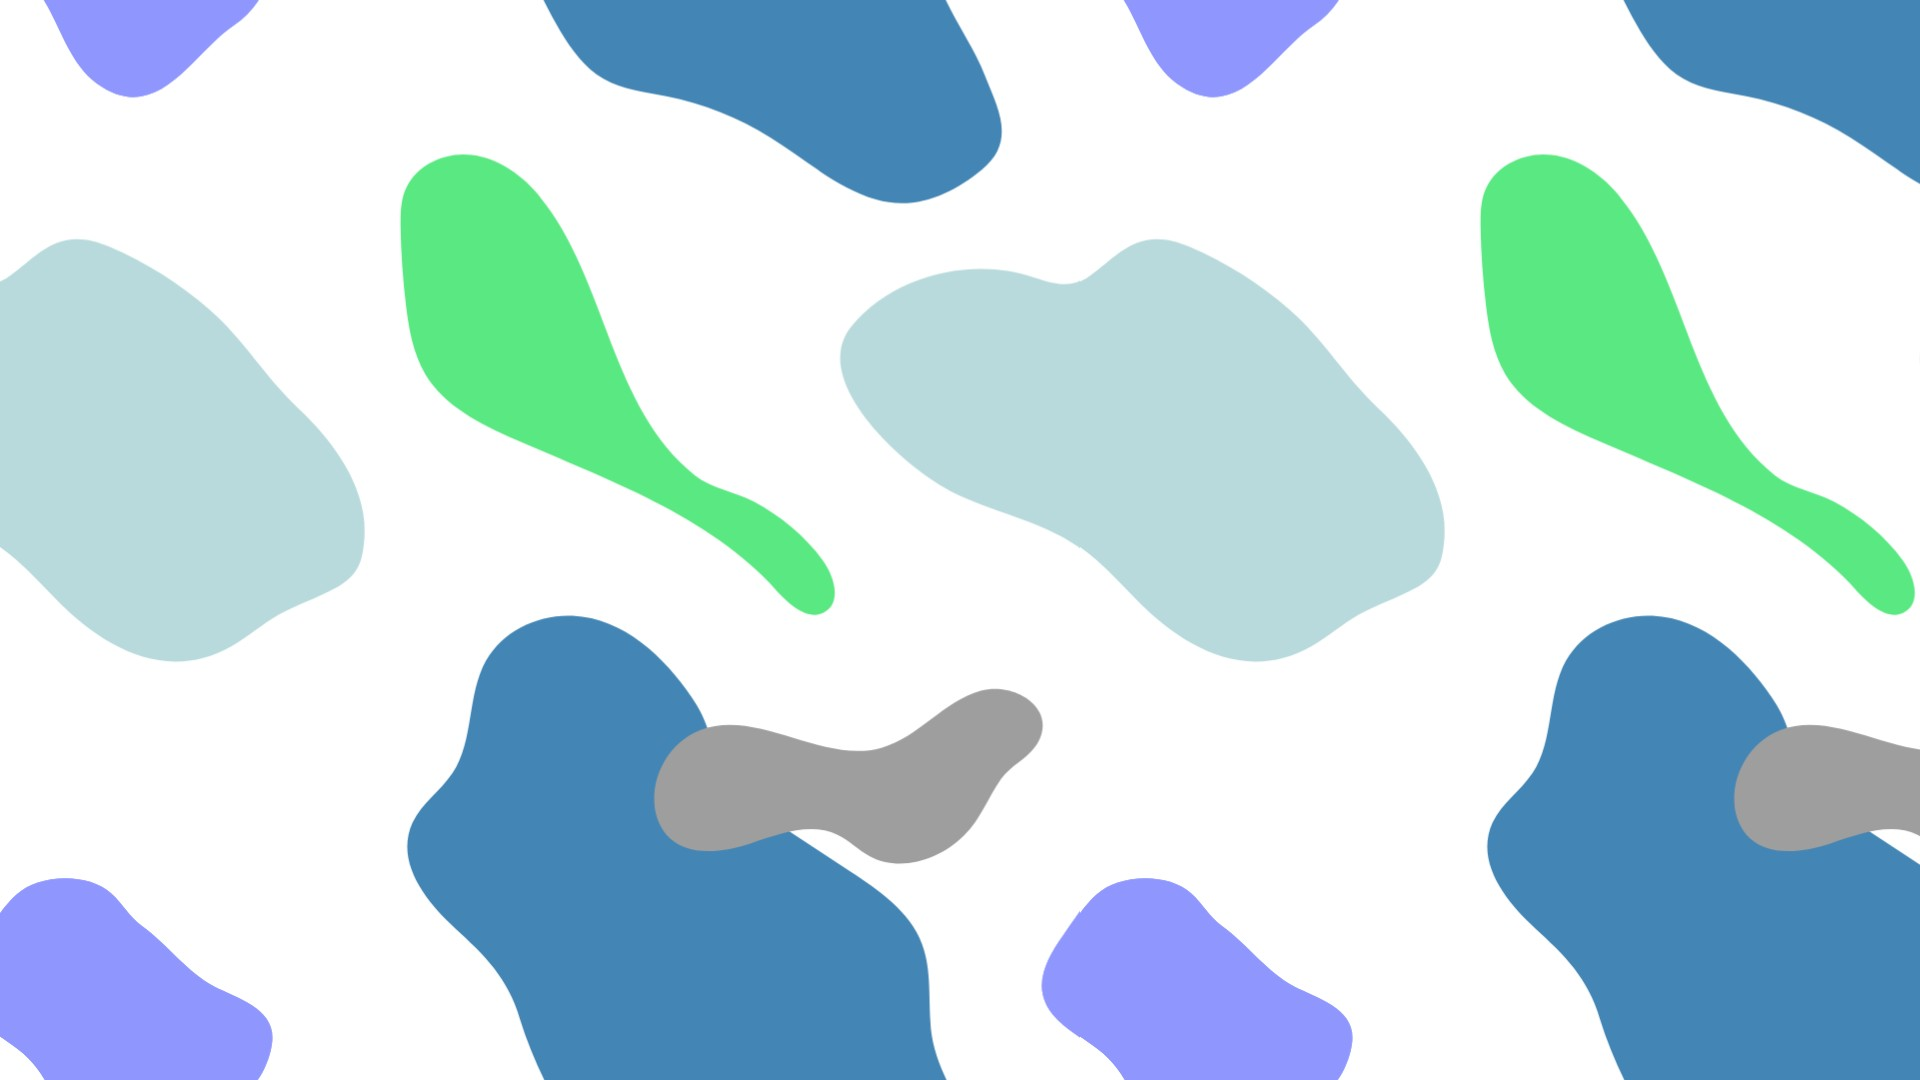
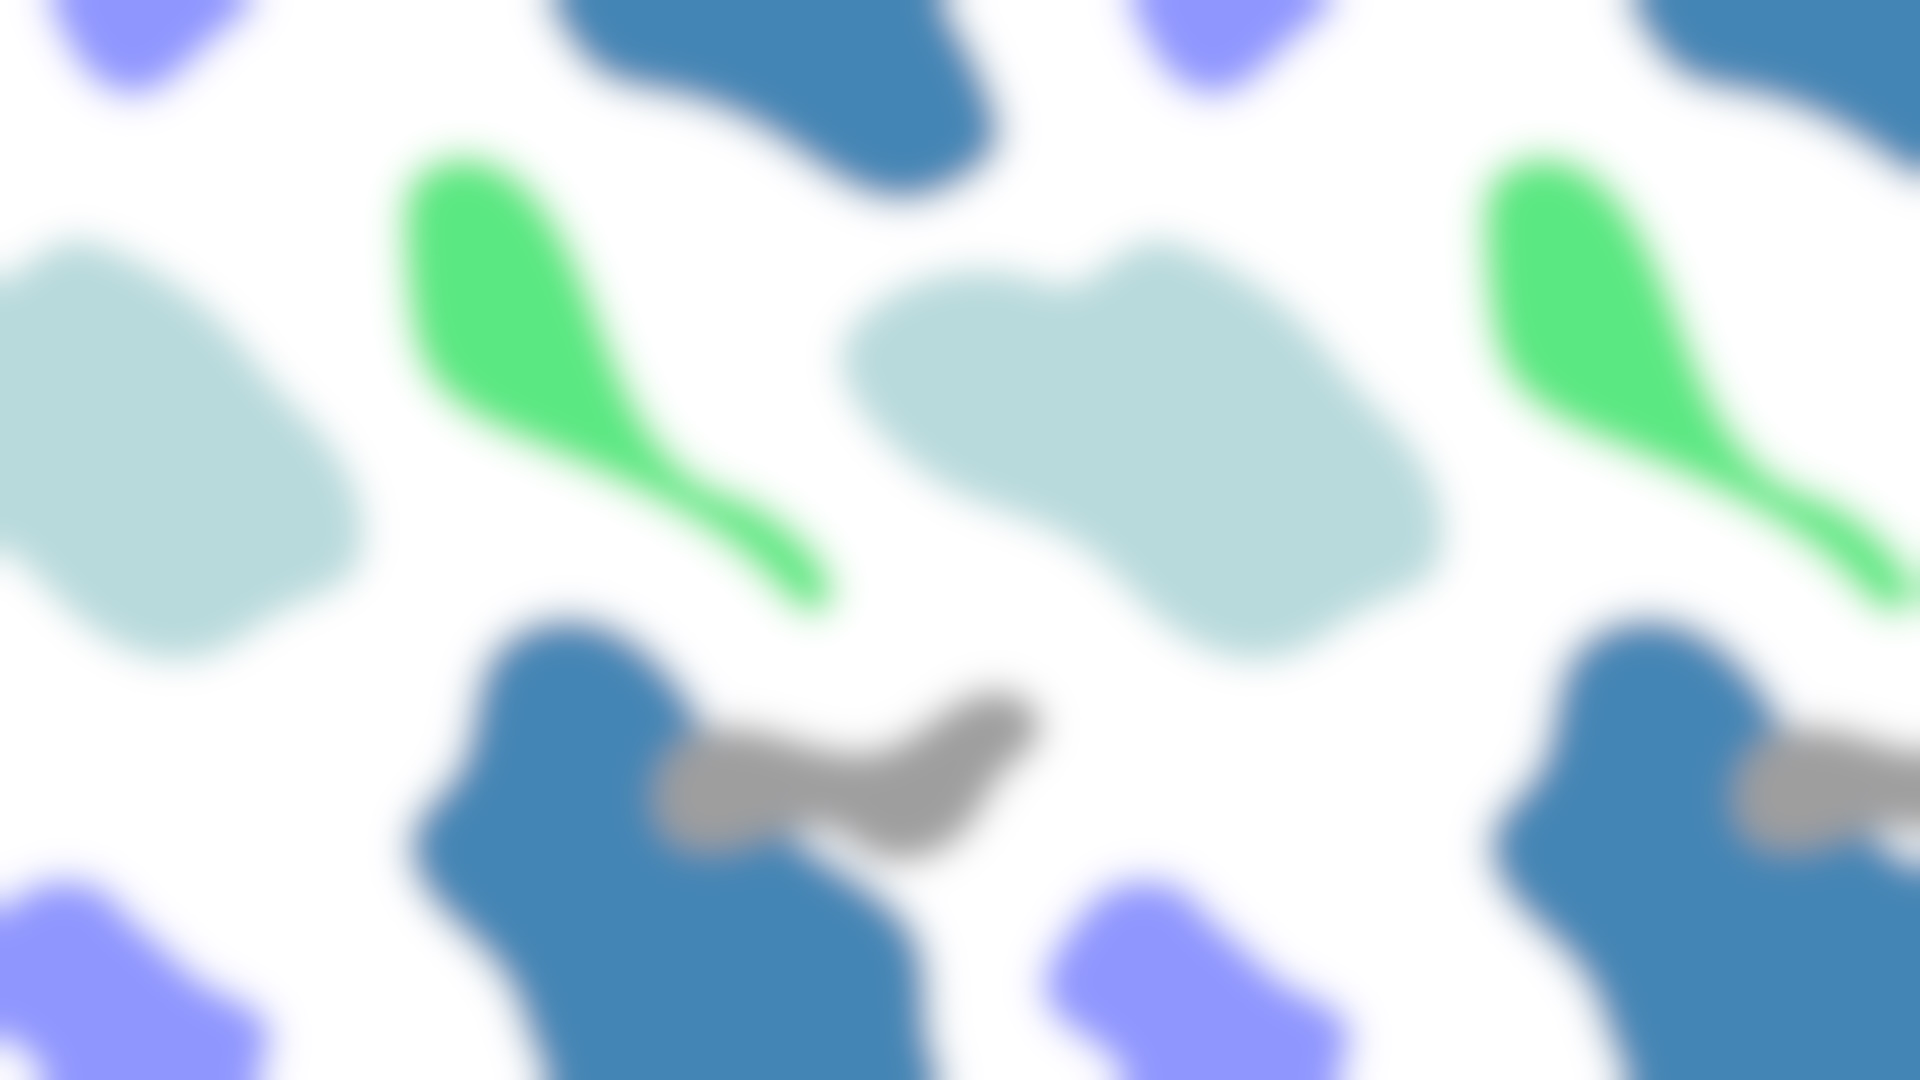
acrylic not in css but in the photo

diff --git a/light-theme.css b/light-theme.css
@@ -23,20 +23,13 @@
     margin: 0px;
 }
 
-.test {
-    height: 100%;
-}
-
 body
 {
-    height: 200%;
     background-image: url(img/lightheme.jpg);
     background-color: var(--background);
     color: var(--font_color);
     font-family: monospace;
     font-size: 25px;
-    -webkit-backdrop-filter: blur(20px);
-    backdrop-filter: blur(20px);
     background-color: rgba(255,255,255,.3);
 }
 

diff --git a/index.html b/index.html
@@ -1,5 +1,4 @@
 <!DOCTYPE html>
-<div class="test">
 <html>
     <head>
         <meta charset="utf-8"/>
@@ -24,4 +23,3 @@
     <p>La page sur ZapoomL est là : <a class="hovereffect" href="article/ZapoomL.html" title="Le lien vers la page de téléchargement de ZapoomL">ZapoomL</a></p>
     </body>
 </html>
-</div>
